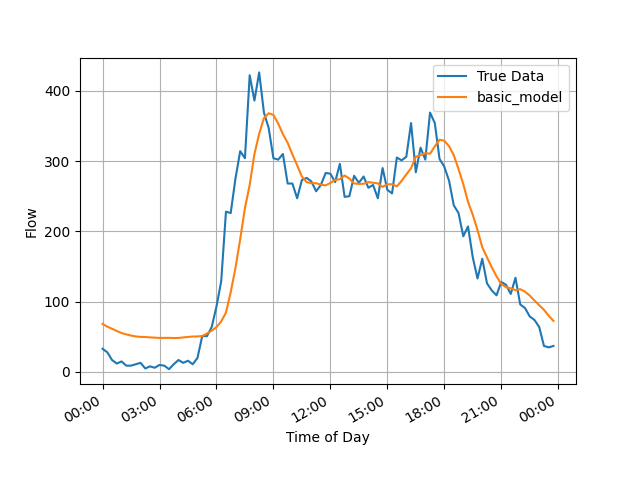
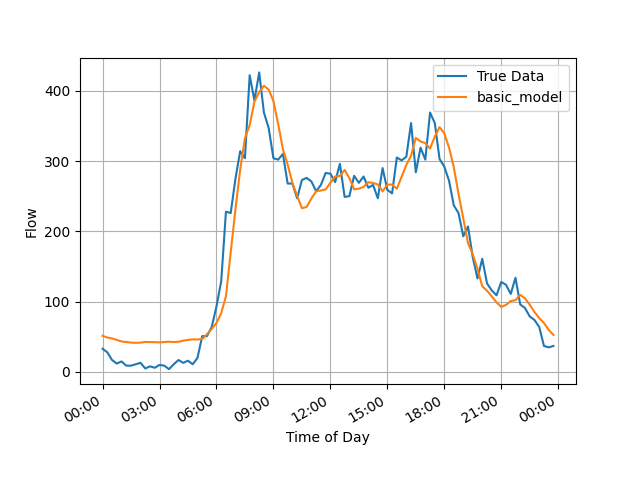
Small fixes

diff --git a/main.py b/main.py
@@ -53,7 +53,7 @@ data_loader = DataLoader(
         ),
         # drop duplicates
         ProcessingSteps.drop_duplicates(),
-        # get flow per period
+        # get flow per period, NOTE: drops all other columns
         get_flow_per_period,
     ],
 )
@@ -80,7 +80,7 @@ y_preds = basic_model.predict(main_input_data.x_test)
 y_preds = main_input_data.scaler.inverse_transform(y_preds)
 
 # limit to one day
-y_true, y_preds = DataLoader.get_example_day(y_true, y_preds, 12)
+y_true, y_preds = DataLoader.get_example_day(y_true, y_preds, training_config.lags)
 
 # result
 results = [

diff --git a/data_loader.py b/data_loader.py
@@ -120,6 +120,8 @@ class DataLoader:
             df_test[target].values.reshape(-1, 1)
         ).reshape(1, -1)[0]
 
+        # TODO retain other columns for evaluation
+
         train, test = [], []
 
         for i in range(lags, len(train_normalised_flow)):
